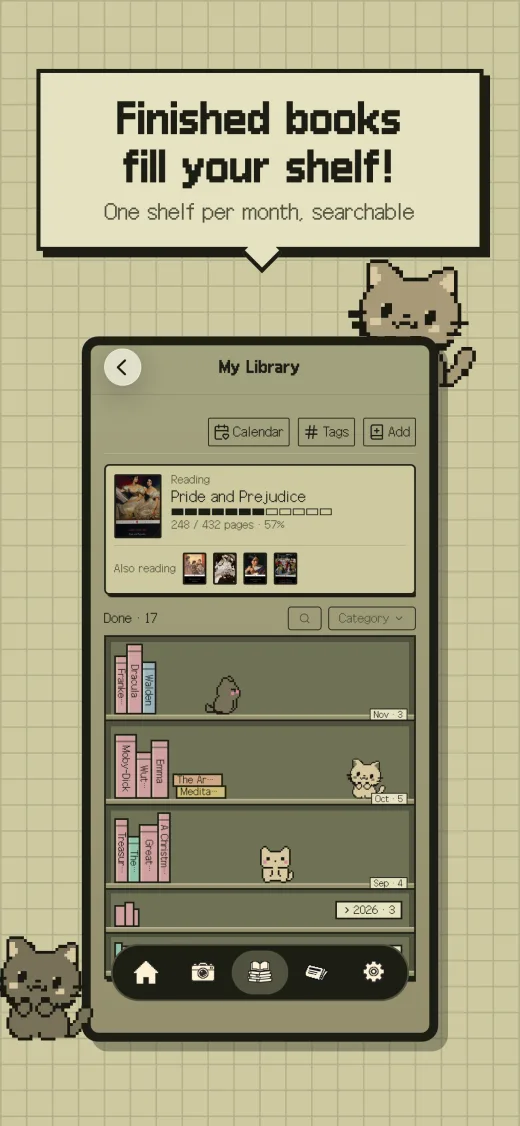
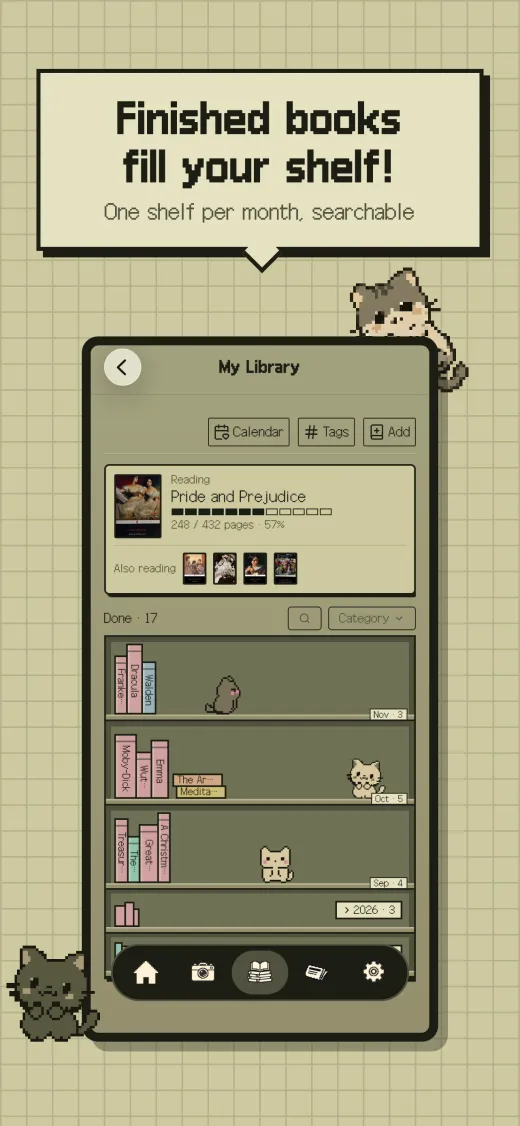
feat: 냥냥서가 소개 페이지 스크린샷을 스토어 이미지와 맞추고 책 탑 추가 (한·영·일)
- 1~6번을 현재 스토어 이미지로 교체 (새 장식 고양이, 6번은 타이머 → 홈 위젯)
- 책 탑 사진을 책장 다음에 7번째로 추가
- 대체 글과 build.py의 순서·문구를 같이 수정

Changed region(s): [[0.6769, 0.2176, 0.9231, 0.373], [0.0, 0.8082, 0.1846, 0.9325]]

diff --git a/ja/nyangnyang/index.html b/ja/nyangnyang/index.html
@@ -53,7 +53,7 @@
     </div>
   </aside>
   <div class="main">
-    <div class="shots"><figure class="shot" style="--rot:-1.5deg"><span class="tape"></span><img src="/assets/shots/nyangnyang-ja-2.webp" alt="撮ったらおしまい、一節を書き写します。写真の中の文字を自動で読み取ります" loading="lazy"></figure><figure class="shot" style="--rot:1.2deg"><span class="tape"></span><img src="/assets/shots/nyangnyang-ja-4.webp" alt="お気に入りの一節はカードでシェア。背景と書体を選んでSNSにすぐ投稿" loading="lazy"></figure><figure class="shot" style="--rot:-0.8deg"><span class="tape"></span><img src="/assets/shots/nyangnyang-ja-1.webp" alt="猫たちが守るわたしの本棚。読んだ本と一節をまとめて置ける場所" loading="lazy"></figure><figure class="shot" style="--rot:1.6deg"><span class="tape"></span><img src="/assets/shots/nyangnyang-ja-3.webp" alt="読んだ本と一節がどんどん貯まります。読書中も読了もひと目で" loading="lazy"></figure><figure class="shot" style="--rot:-1.2deg"><span class="tape"></span><img src="/assets/shots/nyangnyang-ja-5.webp" alt="本を登録するたびににゃんこに会える! ひとつずつ集めるにゃんこ図鑑" loading="lazy"></figure><figure class="shot" style="--rot:-1.5deg"><span class="tape"></span><img src="/assets/shots/nyangnyang-ja-6.webp" alt="読む時間はにゃんこが計ります。ロック画面ですぐ見られる読書タイマー" loading="lazy"></figure></div>
+    <div class="shots"><figure class="shot" style="--rot:-1.5deg"><span class="tape"></span><img src="/assets/shots/nyangnyang-ja-2.webp" alt="撮ったらおしまい、一節を書き写します。写真の中の文字を自動で読み取ります" loading="lazy"></figure><figure class="shot" style="--rot:1.2deg"><span class="tape"></span><img src="/assets/shots/nyangnyang-ja-4.webp" alt="お気に入りの一節はカードでシェア。背景と書体を選んでSNSにすぐ投稿" loading="lazy"></figure><figure class="shot" style="--rot:-0.8deg"><span class="tape"></span><img src="/assets/shots/nyangnyang-ja-1.webp" alt="猫たちが守るわたしの本棚。読んだ本と一節をまとめて置ける場所" loading="lazy"></figure><figure class="shot" style="--rot:1.6deg"><span class="tape"></span><img src="/assets/shots/nyangnyang-ja-3.webp" alt="読んだ本と一節がどんどん貯まります。読書中も読了もひと目で" loading="lazy"></figure><figure class="shot" style="--rot:-1.2deg"><span class="tape"></span><img src="/assets/shots/nyangnyang-ja-7.webp" alt="読んだ本がタワーになる! ページ数で本の厚みが変わります" loading="lazy"></figure><figure class="shot" style="--rot:-1.5deg"><span class="tape"></span><img src="/assets/shots/nyangnyang-ja-5.webp" alt="本を登録するたびににゃんこに会える! ひとつずつ集めるにゃんこ図鑑" loading="lazy"></figure><figure class="shot" style="--rot:1.2deg"><span class="tape"></span><img src="/assets/shots/nyangnyang-ja-6.webp" alt="ホーム画面でもにゃんこがお出迎え！今日の一節 · 読書の記録 · ロック画面" loading="lazy"></figure></div>
     <div class="shots-nav"><button type="button" class="prev" aria-label="前の画面" disabled><svg viewBox="0 0 24 24" aria-hidden="true"><path d="M15 5l-7 7 7 7"/></svg></button><span class="count" aria-live="polite">1 / 6</span><button type="button" class="next" aria-label="次の画面"><svg viewBox="0 0 24 24" aria-hidden="true"><path d="M9 5l7 7-7 7"/></svg></button></div>
     <ul class="promise"><li><b>ログインなしですぐ使えます</b><span>本の登録から文章の記録、ねこ集めまで、会員登録は不要です。</span></li><li><b>記録はこの端末に保存されます</b><span>ログインするまで、本や文章がサーバーに送られることはありません。</span></li><li><b>広告もサブスクもありません</b><span>基本の機能はすべて無料。一部の機能だけ、一度の購入でずっと使えます。</span></li></ul>
     <section class="faq"><h2>よくある質問</h2>

diff --git a/nyangnyang/index.html b/nyangnyang/index.html
@@ -53,7 +53,7 @@
     </div>
   </aside>
   <div class="main">
-    <div class="shots"><figure class="shot" style="--rot:-1.5deg"><span class="tape"></span><img src="/assets/shots/nyangnyang-ko-2.webp" alt="찍으면 끝, 문장을 옮겨 적어요. 사진 속 글자를 자동으로 읽어줘요" loading="lazy"></figure><figure class="shot" style="--rot:1.2deg"><span class="tape"></span><img src="/assets/shots/nyangnyang-ko-4.webp" alt="마음에 든 문장은 예쁜 카드로 공유. 배경과 글꼴을 골라 SNS에 바로" loading="lazy"></figure><figure class="shot" style="--rot:-0.8deg"><span class="tape"></span><img src="/assets/shots/nyangnyang-ko-1.webp" alt="고양이들이 지키는 나만의 서재. 읽은 책과 문장을 모으는 곳" loading="lazy"></figure><figure class="shot" style="--rot:1.6deg"><span class="tape"></span><img src="/assets/shots/nyangnyang-ko-3.webp" alt="읽은 책과 문장이 차곡차곡 쌓여요. 읽는 중인 책도, 다 읽은 책도 한눈에" loading="lazy"></figure><figure class="shot" style="--rot:-1.2deg"><span class="tape"></span><img src="/assets/shots/nyangnyang-ko-5.webp" alt="책을 담을 때마다 새 냥냥이를 만나요. 하나씩 채워가는 냥냥이 도감" loading="lazy"></figure><figure class="shot" style="--rot:-1.5deg"><span class="tape"></span><img src="/assets/shots/nyangnyang-ko-6.webp" alt="읽는 시간은 냥냥이가 재줘요. 잠금화면에서 바로 보는 독서 타이머" loading="lazy"></figure></div>
+    <div class="shots"><figure class="shot" style="--rot:-1.5deg"><span class="tape"></span><img src="/assets/shots/nyangnyang-ko-2.webp" alt="찍으면 끝, 문장을 옮겨 적어요. 사진 속 글자를 자동으로 읽어줘요" loading="lazy"></figure><figure class="shot" style="--rot:1.2deg"><span class="tape"></span><img src="/assets/shots/nyangnyang-ko-4.webp" alt="마음에 든 문장은 예쁜 카드로 공유. 배경과 글꼴을 골라 SNS에 바로" loading="lazy"></figure><figure class="shot" style="--rot:-0.8deg"><span class="tape"></span><img src="/assets/shots/nyangnyang-ko-1.webp" alt="고양이들이 지키는 나만의 서재. 읽은 책과 문장을 모으는 곳" loading="lazy"></figure><figure class="shot" style="--rot:1.6deg"><span class="tape"></span><img src="/assets/shots/nyangnyang-ko-3.webp" alt="읽은 책과 문장이 차곡차곡 쌓여요. 읽는 중인 책도, 다 읽은 책도 한눈에" loading="lazy"></figure><figure class="shot" style="--rot:-1.2deg"><span class="tape"></span><img src="/assets/shots/nyangnyang-ko-7.webp" alt="다 읽은 책이 탑으로 쌓여요. 쪽수만큼 두꺼워지는 나만의 책 탑" loading="lazy"></figure><figure class="shot" style="--rot:-1.5deg"><span class="tape"></span><img src="/assets/shots/nyangnyang-ko-5.webp" alt="책을 담을 때마다 새 냥냥이를 만나요. 하나씩 채워가는 냥냥이 도감" loading="lazy"></figure><figure class="shot" style="--rot:1.2deg"><span class="tape"></span><img src="/assets/shots/nyangnyang-ko-6.webp" alt="홈 화면에서도 냥냥이가 반겨줘요. 오늘의 문장 · 독서 현황 · 잠금화면 바로 기록" loading="lazy"></figure></div>
     <div class="shots-nav"><button type="button" class="prev" aria-label="이전 화면" disabled><svg viewBox="0 0 24 24" aria-hidden="true"><path d="M15 5l-7 7 7 7"/></svg></button><span class="count" aria-live="polite">1 / 6</span><button type="button" class="next" aria-label="다음 화면"><svg viewBox="0 0 24 24" aria-hidden="true"><path d="M9 5l7 7-7 7"/></svg></button></div>
     <ul class="promise"><li><b>로그인 없이 바로 써요</b><span>책 등록부터 구절 기록, 고양이 모으기까지 가입 없이 다 돼요.</span></li><li><b>기록은 내 폰에 저장돼요</b><span>로그인하기 전에는 책과 구절이 서버에 올라가지 않아요.</span></li><li><b>광고도 구독도 없어요</b><span>기본 기능은 모두 무료예요. 일부 기능만 한 번 결제하면 계속 써요.</span></li></ul>
     <section class="faq"><h2>자주 묻는 질문</h2>

diff --git a/en/nyangnyang/index.html b/en/nyangnyang/index.html
@@ -53,7 +53,7 @@
     </div>
   </aside>
   <div class="main">
-    <div class="shots"><figure class="shot" style="--rot:-1.5deg"><span class="tape"></span><img src="/assets/shots/nyangnyang-en-2.webp" alt="Snap it and the quote is saved! Reads the text in your photo for you" loading="lazy"></figure><figure class="shot" style="--rot:1.2deg"><span class="tape"></span><img src="/assets/shots/nyangnyang-en-4.webp" alt="Turn a quote into a pretty card! Pick a background and font, then share" loading="lazy"></figure><figure class="shot" style="--rot:-0.8deg"><span class="tape"></span><img src="/assets/shots/nyangnyang-en-1.webp" alt="Cats guard your own library! Where your books and quotes live" loading="lazy"></figure><figure class="shot" style="--rot:1.6deg"><span class="tape"></span><img src="/assets/shots/nyangnyang-en-3.webp" alt="Your books and quotes pile up! Reading or finished, all at a glance" loading="lazy"></figure><figure class="shot" style="--rot:-1.2deg"><span class="tape"></span><img src="/assets/shots/nyangnyang-en-5.webp" alt="Meet a new cat with every book! Fill your cat collection one by one" loading="lazy"></figure><figure class="shot" style="--rot:-1.5deg"><span class="tape"></span><img src="/assets/shots/nyangnyang-en-6.webp" alt="Your cat times your reading! A reading timer on your Lock Screen" loading="lazy"></figure></div>
+    <div class="shots"><figure class="shot" style="--rot:-1.5deg"><span class="tape"></span><img src="/assets/shots/nyangnyang-en-2.webp" alt="Snap it and the quote is saved! Reads the text in your photo for you" loading="lazy"></figure><figure class="shot" style="--rot:1.2deg"><span class="tape"></span><img src="/assets/shots/nyangnyang-en-4.webp" alt="Turn a quote into a pretty card! Pick a background and font, then share" loading="lazy"></figure><figure class="shot" style="--rot:-0.8deg"><span class="tape"></span><img src="/assets/shots/nyangnyang-en-1.webp" alt="Cats guard your own library! Where your books and quotes live" loading="lazy"></figure><figure class="shot" style="--rot:1.6deg"><span class="tape"></span><img src="/assets/shots/nyangnyang-en-3.webp" alt="Your books and quotes pile up! Reading or finished, all at a glance" loading="lazy"></figure><figure class="shot" style="--rot:-1.2deg"><span class="tape"></span><img src="/assets/shots/nyangnyang-en-7.webp" alt="Finished books stack into a tower! Thicker books make a taller tower" loading="lazy"></figure><figure class="shot" style="--rot:-1.5deg"><span class="tape"></span><img src="/assets/shots/nyangnyang-en-5.webp" alt="Meet a new cat with every book! Fill your cat collection one by one" loading="lazy"></figure><figure class="shot" style="--rot:1.2deg"><span class="tape"></span><img src="/assets/shots/nyangnyang-en-6.webp" alt="Cats wait on your Home Screen! Daily quote · Progress · Lock Screen" loading="lazy"></figure></div>
     <div class="shots-nav"><button type="button" class="prev" aria-label="Previous screenshot" disabled><svg viewBox="0 0 24 24" aria-hidden="true"><path d="M15 5l-7 7 7 7"/></svg></button><span class="count" aria-live="polite">1 / 6</span><button type="button" class="next" aria-label="Next screenshot"><svg viewBox="0 0 24 24" aria-hidden="true"><path d="M9 5l7 7-7 7"/></svg></button></div>
     <ul class="promise"><li><b>Use it without logging in</b><span>From adding books to saving quotes and collecting cats, no account needed.</span></li><li><b>Your records stay on your phone</b><span>Nothing is uploaded to our server until you log in.</span></li><li><b>No ads, no subscriptions</b><span>The core is free. A few extras unlock with a one-time purchase.</span></li></ul>
     <section class="faq"><h2>FAQ</h2>

diff --git a/build.py b/build.py
@@ -57,7 +57,7 @@ UI = {
 APPS = [
  dict(slug='nyangnyang', en_name='Meow Shelf', icon='assets/nyangnyang.png', poster='#efe0c2',
       # 순서: 사진 → 문장(OCR)이 첫 장 — 이 앱의 가장 큰 매력을 첫 화면에서 보이려고. 번호는 파일 이름이고, 대체 글(alts)도 이 순서를 따른다
-      shots={l: [f'assets/shots/nyangnyang-{l}-{i}.webp' for i in (2, 4, 1, 3, 5, 6)] for l in LANGS},
+      shots={l: [f'assets/shots/nyangnyang-{l}-{i}.webp' for i in (2, 4, 1, 3, 7, 5, 6)] for l in LANGS},
       og='assets/og/nyangnyang-{lang}.jpg',
       promise={
         'ko': [('로그인 없이 바로 써요', '책 등록부터 구절 기록, 고양이 모으기까지 가입 없이 다 돼요.'), ('기록은 내 폰에 저장돼요', '로그인하기 전에는 책과 구절이 서버에 올라가지 않아요.'), ('광고도 구독도 없어요', '기본 기능은 모두 무료예요. 일부 기능만 한 번 결제하면 계속 써요.')],
@@ -65,7 +65,7 @@ APPS = [
         'en': [('Use it without logging in', 'From adding books to saving quotes and collecting cats, no account needed.'), ('Your records stay on your phone', 'Nothing is uploaded to our server until you log in.'), ('No ads, no subscriptions', 'The core is free. A few extras unlock with a one-time purchase.')],
       },
       free={'ko': '무료로 시작 · 광고 없음 · 로그인 필요 없음', 'ja': '無料で始められます · 広告なし · ログイン不要', 'en': 'Free to start · No ads · No sign-in needed'},
-      alts={'ko': ['찍으면 끝, 문장을 옮겨 적어요. 사진 속 글자를 자동으로 읽어줘요', '마음에 든 문장은 예쁜 카드로 공유. 배경과 글꼴을 골라 SNS에 바로', '고양이들이 지키는 나만의 서재. 읽은 책과 문장을 모으는 곳', '읽은 책과 문장이 차곡차곡 쌓여요. 읽는 중인 책도, 다 읽은 책도 한눈에', '책을 담을 때마다 새 냥냥이를 만나요. 하나씩 채워가는 냥냥이 도감', '읽는 시간은 냥냥이가 재줘요. 잠금화면에서 바로 보는 독서 타이머'], 'ja': ['撮ったらおしまい、一節を書き写します。写真の中の文字を自動で読み取ります', 'お気に入りの一節はカードでシェア。背景と書体を選んでSNSにすぐ投稿', '猫たちが守るわたしの本棚。読んだ本と一節をまとめて置ける場所', '読んだ本と一節がどんどん貯まります。読書中も読了もひと目で', '本を登録するたびににゃんこに会える! ひとつずつ集めるにゃんこ図鑑', '読む時間はにゃんこが計ります。ロック画面ですぐ見られる読書タイマー'], 'en': ['Snap it and the quote is saved! Reads the text in your photo for you', 'Turn a quote into a pretty card! Pick a background and font, then share', 'Cats guard your own library! Where your books and quotes live', 'Your books and quotes pile up! Reading or finished, all at a glance', 'Meet a new cat with every book! Fill your cat collection one by one', 'Your cat times your reading! A reading timer on your Lock Screen']},
+      alts={'ko': ['찍으면 끝, 문장을 옮겨 적어요. 사진 속 글자를 자동으로 읽어줘요', '마음에 든 문장은 예쁜 카드로 공유. 배경과 글꼴을 골라 SNS에 바로', '고양이들이 지키는 나만의 서재. 읽은 책과 문장을 모으는 곳', '읽은 책과 문장이 차곡차곡 쌓여요. 읽는 중인 책도, 다 읽은 책도 한눈에', '다 읽은 책이 탑으로 쌓여요. 쪽수만큼 두꺼워지는 나만의 책 탑', '책을 담을 때마다 새 냥냥이를 만나요. 하나씩 채워가는 냥냥이 도감', '홈 화면에서도 냥냥이가 반겨줘요. 오늘의 문장 · 독서 현황 · 잠금화면 바로 기록'], 'ja': ['撮ったらおしまい、一節を書き写します。写真の中の文字を自動で読み取ります', 'お気に入りの一節はカードでシェア。背景と書体を選んでSNSにすぐ投稿', '猫たちが守るわたしの本棚。読んだ本と一節をまとめて置ける場所', '読んだ本と一節がどんどん貯まります。読書中も読了もひと目で', '読んだ本がタワーになる! ページ数で本の厚みが変わります', '本を登録するたびににゃんこに会える! ひとつずつ集めるにゃんこ図鑑', 'ホーム画面でもにゃんこがお出迎え！今日の一節 · 読書の記録 · ロック画面'], 'en': ['Snap it and the quote is saved! Reads the text in your photo for you', 'Turn a quote into a pretty card! Pick a background and font, then share', 'Cats guard your own library! Where your books and quotes live', 'Your books and quotes pile up! Reading or finished, all at a glance', 'Finished books stack into a tower! Thicker books make a taller tower', 'Meet a new cat with every book! Fill your cat collection one by one', 'Cats wait on your Home Screen! Daily quote · Progress · Lock Screen']},
       store=[('App Store', 'https://apps.apple.com/{cc}/app/id6806888734'), ('Google Play', 'https://play.google.com/store/apps/details?id=com.nyangnyangseoga.app&amp;hl={hl}')],
       legal={'privacy': {'ko': '/nyangnyang-site/privacy.html', 'ja': '/nyangnyang-site/ja/privacy.html', 'en': '/nyangnyang-site/en/privacy.html'},
              'terms': {'ko': '/nyangnyang-site/terms.html', 'ja': '/nyangnyang-site/ja/terms.html', 'en': '/nyangnyang-site/en/terms.html'}},
